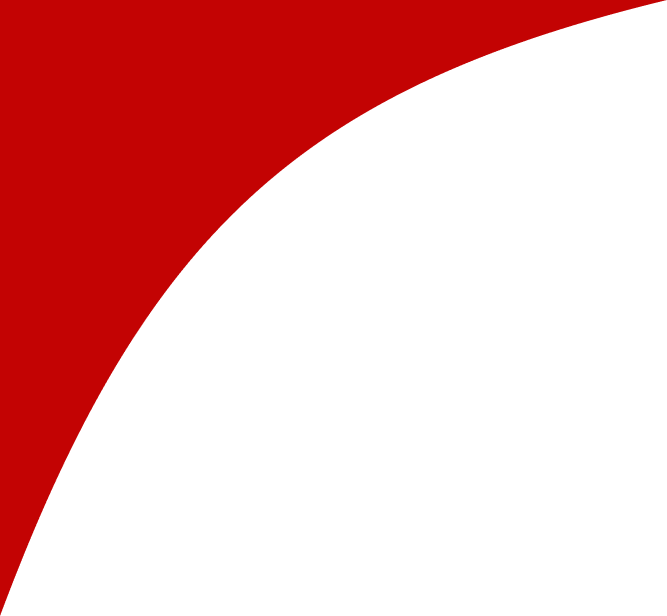
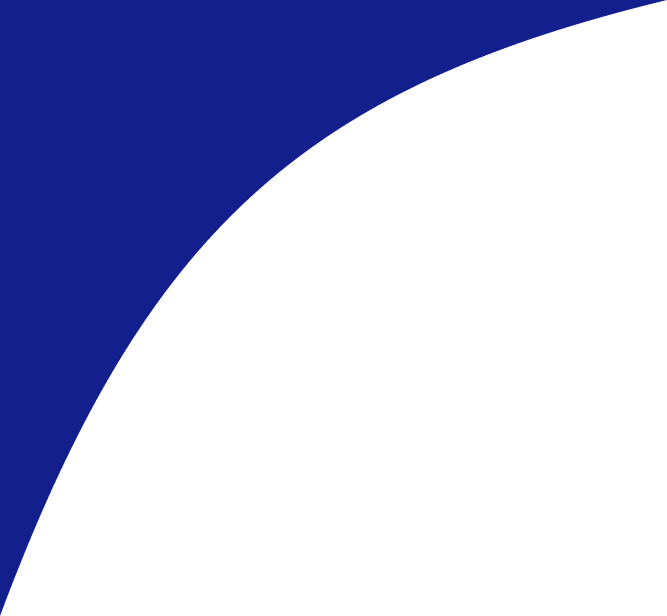
configuracion inicial

diff --git a/resources/js/Pages/Auth/Login.vue b/resources/js/Pages/Auth/Login.vue
@@ -35,7 +35,7 @@ const submit = () => {
     <AuthenticationCard>
         <template #logo>
             <AuthenticationCardLogo />
-            <h2 class="font-bold mt-7 text-center text-lg">Iniciar sesionn</h2>
+            <h2 class="font-bold mt-7 text-center text-lg">Iniciar sesion</h2>
         </template>
 
         <div v-if="status" class="mb-4 font-medium text-sm text-green-600">
@@ -81,7 +81,7 @@ const submit = () => {
             <div class="block mt-4">
                 <label class="flex items-center">
                     <Checkbox v-model:checked="form.remember" name="remember" />
-                    <span class="ms-2 text-sm text-gray-600">Dejar sesión abierta</span>
+                    <span class="ms-2 text-sm text-gray-600">Mantener sesión abierta</span>
                 </label>
             </div>
 

diff --git a/resources/js/Components/PrimaryButton.vue b/resources/js/Components/PrimaryButton.vue
@@ -8,7 +8,7 @@ defineProps({
 </script>
 
 <template>
-    <button :type="type" class="text-center px-4 py-2 bg-primary border border-transparent rounded-md text-xs text-white tracking-widest active:scale-95 disabled:active:scale-100 disabled:cursor-not-allowed disabled:text-white disabled:bg-[#999999] focus:outline-none focus:ring-0 transition ease-in-out duration-100">
+    <button :type="type" class="text-center px-4 py-2 bg-primary border border-transparent rounded-full text-xs text-white tracking-widest active:scale-95 disabled:active:scale-100 disabled:cursor-not-allowed disabled:text-white disabled:bg-[#999999] focus:outline-none focus:ring-0 transition ease-in-out duration-100">
         <slot />
     </button>
 </template>

diff --git a/tailwind.config.js b/tailwind.config.js
@@ -18,8 +18,8 @@ export default {
                 sans: ['Figtree', ...defaultTheme.fontFamily.sans],
             },
             colors: {
-                primary: '#C30303',
-                primarylight: '#FD9696',
+                primary: '#131F8C',
+                primarylight: '#D2D6F9',
                 secondary: '#25346D',
                 secondarylight: '#25346D',
                 redpad: '#C1202A',

diff --git a/database/seeders/DatabaseSeeder.php b/database/seeders/DatabaseSeeder.php
@@ -23,7 +23,7 @@ class DatabaseSeeder extends Seeder
             'password' => bcrypt('321321321'),
         ]);
 
-        Product::factory(150)->create();
-        Sale::factory(1500)->create();
+        // Product::factory(150)->create();
+        // Sale::factory(1500)->create();
     }
 }
